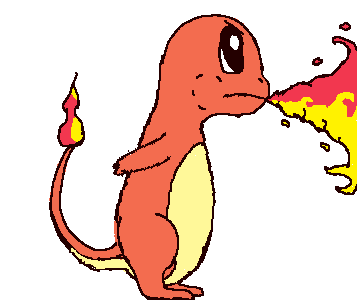
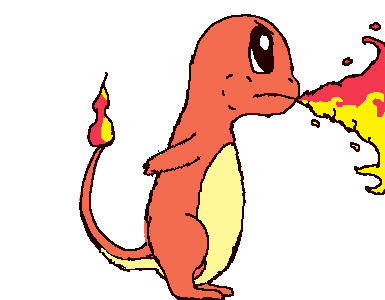
added alternate move

Changed region(s): [[0.1232, 0.03, 1.0, 1.0], [0.9244, 0.3, 1.0, 0.39], [0.5238, 0.3, 0.5854, 0.33]]

diff --git a/js/script.js b/js/script.js
@@ -14,6 +14,9 @@ var p1 = {
 	nPosition: 0,
 	health: 100,
 	nHealth: 100,
+	qDamage: 2.5,
+	nqDamage: 2.5,
+	sequence: 0,
 	damage: 5,
 	nDamage: 5,
 	attackSpeed: 10,
@@ -24,8 +27,8 @@ var p1 = {
 	combo: 0,
 	comboId: 0,
 	attackLock: 0,
-	blockStrength: 2,
-	nBlockStrength: 2,
+	blockStrength: 5,
+	nBlockStrength: 5,
 	block: false,
 	blockCD: 0,
 	wins: 0,
@@ -41,6 +44,8 @@ var p2 = {
 	pAttack:"url('img/charmander attack.png')",
 	pBlock:"url('img/charmander block.png')",
 	pFlinch:"url('img/charmander flinch.png')",
+	pQuickAttack1: "url('img/charmander scratch 1.png')",
+	pQuickAttack2: "url('img/charmander scratch 2.png')",
 	html: $('#p2'),
 	shield: $('#p2shield'),
 	$hp: $('#p2hp'),
@@ -49,6 +54,9 @@ var p2 = {
 	nPosition: 18,
 	health: 100,
 	nHealth: 100,
+	qDamage: 5,
+	nqDamage: 5,
+	sequence: 0,
 	damage: 10,
 	nDamage: 10,
 	attackSpeed: 20,
@@ -59,8 +67,8 @@ var p2 = {
 	combo: 0,
 	comboId: 0,
 	attackLock: 0,
-	blockStrength: 2,
-	nBlockStrength: 2,
+	blockStrength: 4,
+	nBlockStrength: 4,
 	block: false,
 	blockCD: 0,
 	wins: 0,
@@ -119,28 +127,28 @@ function movement(e) {
 function testMove(player, direction) {
 	//p1 moving right
 	if (player == p1 && direction == 'right') {
-		if (x[p1.position+1] != undefined && p1.position+6 != p2.position) {
+		if (x[p1.position+1] != undefined && p1.position+7 != p2.position) {
 			move(p1, 1);
 		}
 	}
 
 	//p1 moving left
 	else if (player == p1 && direction == 'left') {
-		if (x[p1.position-1] != undefined && p1.position-6 != p2.position) {
+		if (x[p1.position-1] != undefined && p1.position-7 != p2.position) {
 			move(p1, -1);
 		}
 	}
 
 	//p2 moving right
 	else if (player == p2 && direction == 'right') {
-		if (x[p2.position+1] != undefined && p2.position+6 != p1.position) {
+		if (x[p2.position+1] != undefined && p2.position+7 != p1.position) {
 			move(p2, 1);
 		} 
 	}
 
 	//p2 moving left
 	else if (player == p2 && direction == 'left') {
-		if (x[p2.position-1] != undefined && p2.position-6 != p1.position) {
+		if (x[p2.position-1] != undefined && p2.position-7 != p1.position) {
 			move(p2, -1)
 		} 
 	}
@@ -159,35 +167,45 @@ function move(player, value) {
 
 function combat(e) {
 	//TODO change key layout for each player
-	//attack
+	//quick attack
 	// 1
 	if (e.keyCode == 49) {
-		attack(p1, p2);
+		attack(p1, p2, 'quick');
+	}
+	// ,
+	if (e.keyCode == 188) {
+		attack(p2, p1, 'quick');
+	}
+
+	//strong attack
+	// 2
+	if (e.keyCode == 50) {
+		attack(p1, p2, 'strong');
 	}
 	// .
-	else if (e.keyCode == 190) {
-		attack(p2, p1);
+	if (e.keyCode == 190) {
+		attack(p2, p1, 'strong');
 	}
 
 	//block
-	// 2
-	else if (e.keyCode == 50) {
+	// 3
+	if (e.keyCode == 51) {
 		block(p1);
 	}
 	// /
-	else if (e.keyCode == 191) {
+	if (e.keyCode == 191) {
 		block(p2);	
 	}
 }
 
 function testCollision(attacker) {
 	if (attacker == p1) {
-		if (p1.position+6 == p2.position) {
+		if (p1.position+7 == p2.position) {
 			return true;
 		}
 	}
 	else {
-		if (p1.position == p2.position-6) {
+		if (p1.position == p2.position-7) {
 			return true;
 		}
 	}
@@ -201,30 +219,48 @@ function checkStatus(player) {
 // ------------------------------------------ATTACKING------------------------------------------ //
 
 //TODO add blocking damage reduction
-function attack(aggressor, defender){
+function attack(aggressor, defender, type){
 	//check attack cooldown and stun status
 	if (checkStatus(aggressor)) {
-		
 		//show animation
 		//change css
-		aggressor.html.css('width', '350px');
-		aggressor.html.css('background-image', aggressor.pAttack);
+		aggressor.html.css('width', '386px');
+		if (type == 'strong') {
+			aggressor.html.css('background-image', aggressor.pAttack);	
+		}
+		else {
+			if (aggressor.sequence == 0) {
+				aggressor.html.css('background-image', aggressor.pQuickAttack1);
+				aggressor.sequence++;
+			}
+			else {
+				aggressor.html.css('background-image', aggressor.pQuickAttack2);
+				aggressor.sequence--;
+			}
+		}
+		defender.html.css('z-index', 0)
 		aggressor.html.css('z-index', 1);
 		aggressor.attack = true;
 		if (aggressor == p2) {
-			aggressor.html.css('left', parseInt(aggressor.html.css('left'))-50);
+			aggressor.html.css('left', parseInt(aggressor.html.css('left'))-100);
 		}
 		//attacking creates animation lock
+		var timeout = 0;
+		if (type == 'strong') {
+			timeout = 50;
+		}
+		else {
+			timeout = 25;
+		}
 		aggressor.attackLock = setTimeout(function() {
 			neutralCSS(aggressor);
 			if (aggressor == p2) {
-				aggressor.html.css('left', parseInt(aggressor.html.css('left'))+50);
+				aggressor.html.css('left', parseInt(aggressor.html.css('left'))+100);
 			}
 			aggressor.attack = false;
 
-		},50*aggressor.attackSpeed);
-		setAttackCD(aggressor);
-
+		},timeout*aggressor.attackSpeed);
+		setAttackCD(aggressor, timeout);
 
 		//check collision -- only on collision does damage apply
 		if (testCollision(aggressor)) {
@@ -232,8 +268,13 @@ function attack(aggressor, defender){
 			if (defender.health) {
 				//check block
 				if (!defender.block) {
+					if (type == 'strong') {
+						defender.health -= aggressor.damage;
+					}
+					else {
+						defender.health -= aggressor.qDamage;
+					}
 					//combo tracking -- only iterate combo if attack is not blocked
-					defender.health -= aggressor.damage;
 					aggressor.combo++;
 					clearInterval(aggressor.comboId);
 					aggressor.comboId = comboReset(aggressor);
@@ -248,7 +289,12 @@ function attack(aggressor, defender){
 					}
 				}
 				else { //damage halved when block
-					defender.health -= aggressor.damage/defender.blockStrength;
+					if (type == 'strong') {
+						defender.health -= aggressor.damage/defender.blockStrength;
+					}
+					else {
+						defender.health -= aggressor.qDamage/defender.blockStrength;
+					}
 				}
 				updateStats();
 				//check KO
@@ -258,7 +304,7 @@ function attack(aggressor, defender){
 	}	
 }
 
-function setAttackCD(aggressor, move) {
+function setAttackCD(aggressor, time) {
 	aggressor.attackCD = 1;
 	//reset attackCD to 0
 	var id = setInterval(function() {
@@ -266,7 +312,7 @@ function setAttackCD(aggressor, move) {
 		if (aggressor.attackCD <=0) {
 			clearInterval(id);
 		}
-	}, 50*aggressor.attackSpeed);
+	}, time*aggressor.attackSpeed);
 }
 
 // ------------------------------------------COMBO MANAGEMENT------------------------------------------ //
